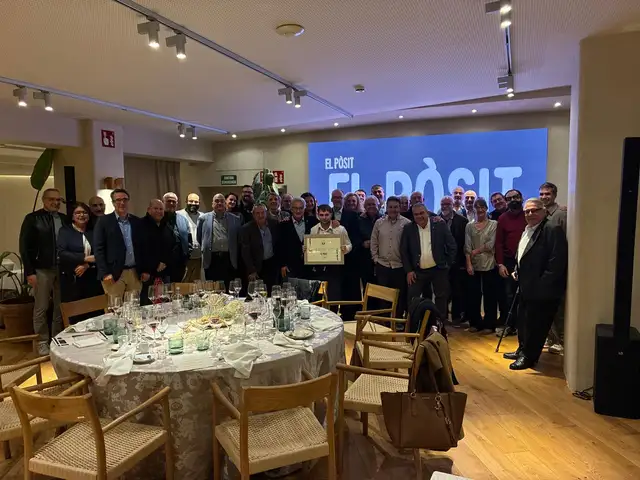
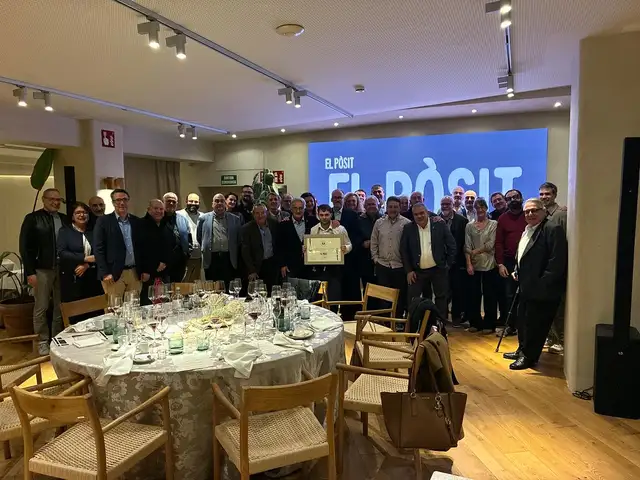
fix: aclara y reencuadra las fotos de Àngel y del grupo
Las dos salían apagadas. Se suben brillo, contraste y saturación de
forma moderada, partiendo de los originales y no de las versiones ya
comprimidas.

La de Àngel, además, estaba demasiado abierta: salía entero y muy
pequeño. Se recorta sobre el fotograma original para que ocupe el
encuadre, conservando las letras de El Pòsit detrás, que son la gracia
de la foto. De 576x1024 pasa a 800x1420, así que además se ve nítida.

La foto de grupo deja de recortarse en el marco de 500 px —perdía un
19 %— y pasa a mostrarse completa. Es la que cierra la temporada.

diff --git a/entrades/posit-pineda-cronica-2026.html b/entrades/posit-pineda-cronica-2026.html
@@ -437,7 +437,7 @@
   <h2 class="e-title t" data-es="Se cierra el recorrido" data-ca="Es tanca el recorregut">Se cierra el recorrido</h2>
 
   <figure class="e-foto-gran">
-    <img src="../assets/img/posit/cronica/foto-grup.jpg" alt="Foto de grupo de los Gourmets de Tarragona con el diploma, delante de la pantalla de El Pòsit" loading="lazy">
+    <img src="../assets/img/posit/cronica/foto-grup.jpg" alt="Foto de grupo de los Gourmets de Tarragona con el diploma, delante de la pantalla de El Pòsit" style="width:100%;height:auto;display:block;" loading="lazy">
     <figcaption class="e-foto-peu t" data-es="La foto de grupo de la octava visita. Con esta se cierra el recorrido de 2026" data-ca="La foto de grup de la vuitena visita. Amb aquesta es tanca el recorregut del 2026">La foto de grupo de la octava visita. Con esta se cierra el recorrido de 2026</figcaption>
   </figure>
 
